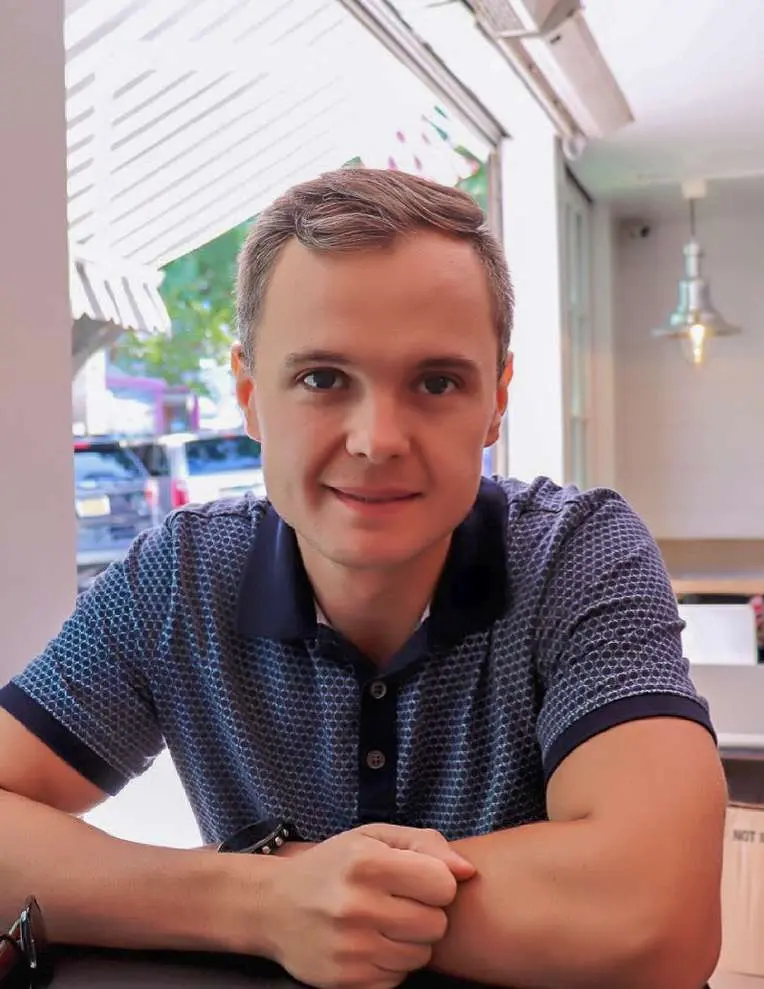
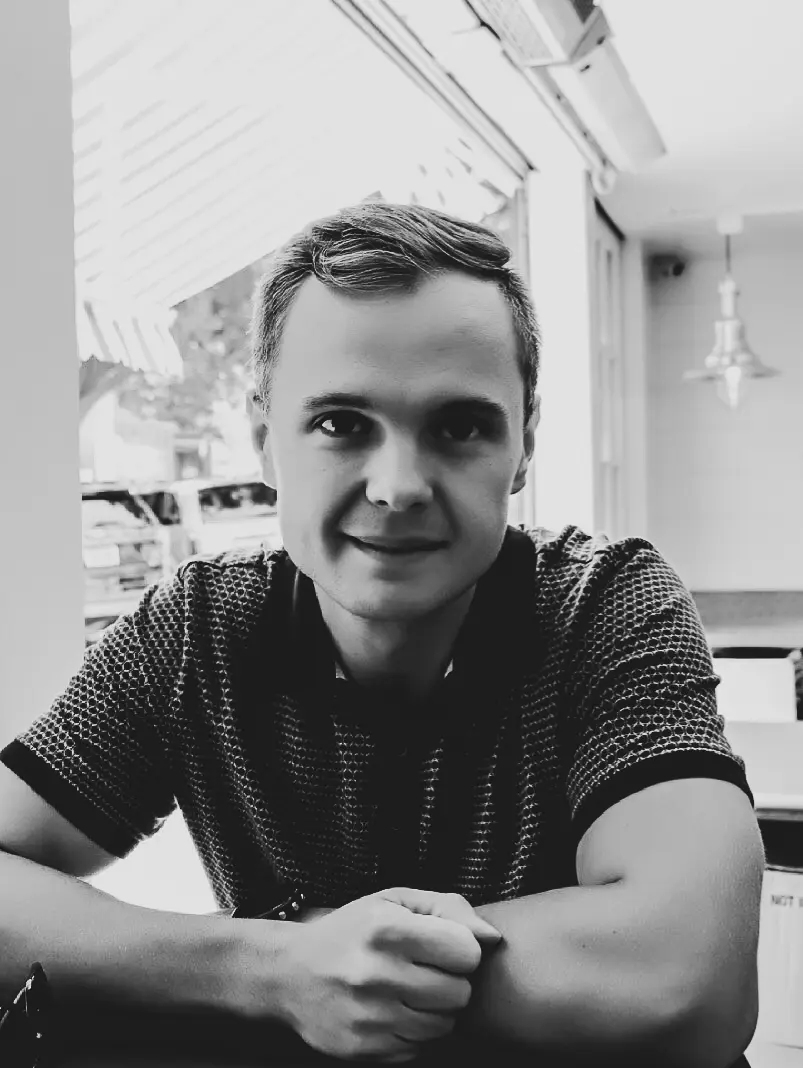
delete commented code, implement new styls for about image

diff --git a/src/pages/_projects.scss b/src/pages/_projects.scss
@@ -63,57 +63,3 @@
     }
   }
 }
-
-// &__main {
-//   display: flex;
-//   flex-direction: row;
-//   flex-wrap: wrap;
-
-//   @include respound(tab-port) {
-//     flex-direction: column;
-//   }
-// }
-
-// &__main--project {
-//   display: flex;
-//   justify-content: center;
-//   align-items: flex-start;
-//   width: 100%;
-//   @include u-margin-bottom-medium;
-
-//   @include respound(tab-land) {
-//     align-items: center;
-//     flex-direction: column;
-//   }
-
-//   & > .project-img {
-//     width: 40%;
-
-//     @include respound(tab-land) {
-//       width: 100%;
-//     }
-
-//     & > a img {
-//       width: 90%;
-//       height: 100%;
-//       overflow: hidden;
-
-//       @include respound(tab-land) {
-//         height: 100%;
-//       }
-//     }
-//   }
-//   & > .project-desc {
-//     width: 60%;
-//     padding-left: 6rem;
-
-//     @include respound(tab-land) {
-//       width: 100%;
-//     }
-
-//     @include respound(tab-port) {
-//       padding-left: 0;
-//     }
-//   }
-// }
-// }

diff --git a/src/pages/_about.scss b/src/pages/_about.scss
@@ -49,8 +49,8 @@
   &__img {
     max-width: 35rem;
     height: auto;
-    border-radius: 10%;
-    filter: grayscale(100%);
+    border-radius: 50% 0px;
+    border: 2px solid $color-primary;
     user-select: none;
     pointer-events: none;
 
